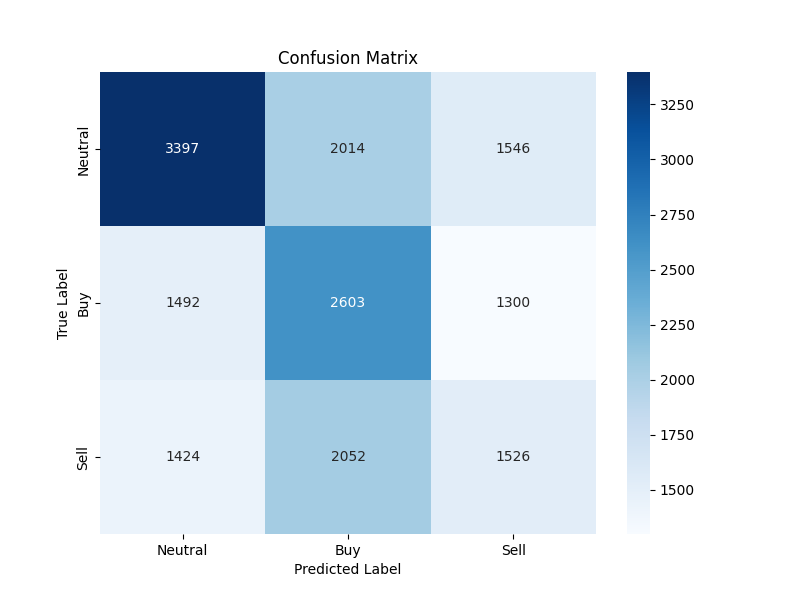
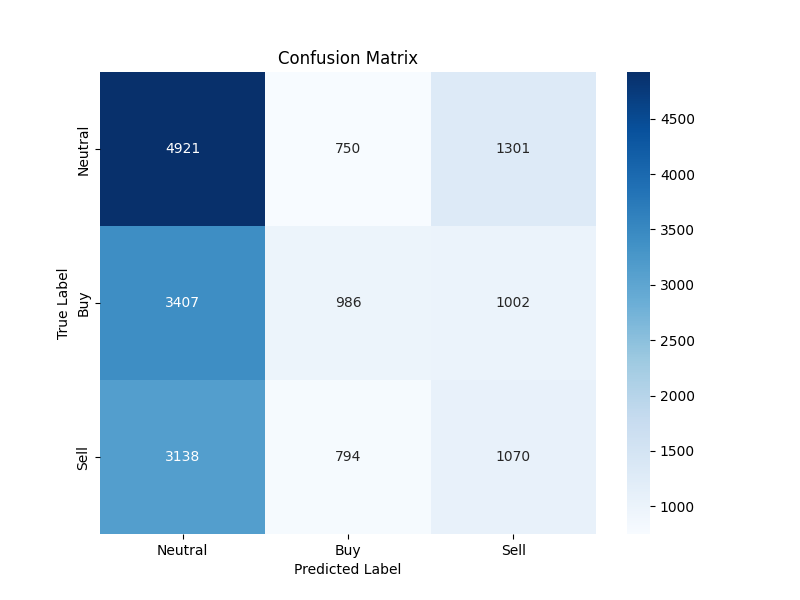
트렌드 매매 시뮬레이션

diff --git a/trade.py b/trade.py
@@ -1,0 +1,217 @@
+import pandas as pd
+import numpy as np
+import pandas_ta as ta
+
+# ===================================
+# === 1. 파라미터 설정 ===
+# ===================================
+# --- 전략 파라미터 ---
+WINDOW = 14
+ADX_TREND_THRESHOLD = 15
+ZSCORE_LOOKBACK_PERIOD = 14
+ZSCORE_THRESHOLD = 1.5
+EMA_LONG_PERIOD = 100
+
+# --- 백테스트 파라미터 ---
+DATA_FILE = "data.csv"
+INITIAL_BALANCE_USDT = 10000
+LEVERAGE = 10
+BASE_MARGIN_QUANTITY_BTC = 0.001 # 증거금 계산 기준이 되는 BTC 수량
+
+# --- 손익 및 수수료 파라미터 ---
+PROFIT_TAKE_PCT = 0.01
+STOP_LOSS_PCT = 0.01
+TRANSACTION_FEE_PCT = 0.0004
+
+# ===================================
+# === 2. 액션 결정 함수 ===
+# ===================================
+def get_action_decision(params):
+    adx = params['adx']
+    plus_di = params['plus_di']
+    minus_di = params['minus_di']
+    z_score = params['z_score']
+    close_price = params['close']
+    long_ema = params['long_ema']
+    adx_threshold = params['ADX_TREND_THRESHOLD']
+    z_score_threshold = params['ZSCORE_THRESHOLD']
+    action = None
+    is_trending = adx > adx_threshold
+    is_bullish_momentum = plus_di > minus_di and z_score > z_score_threshold
+    is_bearish_momentum = minus_di > plus_di and z_score < -z_score_threshold
+    is_above_long_ema = close_price > long_ema
+    is_below_long_ema = close_price < long_ema
+
+    if is_trending and is_bullish_momentum and is_above_long_ema:
+        action = "ENTER_LONG"
+    elif is_trending and is_bearish_momentum and is_below_long_ema:
+        action = "ENTER_SHORT"
+    return action
+
+# ===================================
+# === 3. 데이터 준비 및 지표 계산 ===
+# ===================================
+print("--- 데이터 로딩 및 지표 계산 시작 ---")
+try:
+    df = pd.read_csv(DATA_FILE, index_col="Timestamp", parse_dates=True)
+    print(f"데이터 로딩 완료: {len(df)} 행")
+except FileNotFoundError:
+    print(f"오류: 데이터 파일 '{DATA_FILE}'을 찾을 수 없습니다.")
+    exit()
+
+adx_df = ta.adx(high=df["High"], low=df["Low"], close=df["Close"], length=WINDOW)
+adx_df.rename(columns={f'ADX_{WINDOW}': 'adx', f'DMP_{WINDOW}': 'plus_di', f'DMN_{WINDOW}': 'minus_di'}, inplace=True)
+df = pd.concat([df, adx_df], axis=1)
+df['returns'] = df['Close'].pct_change()
+df['ret_x_vol'] = df['returns'] * df['Volume']
+sum_ret_x_vol = df['ret_x_vol'].rolling(window=ZSCORE_LOOKBACK_PERIOD).sum()
+sum_vol = df['Volume'].rolling(window=ZSCORE_LOOKBACK_PERIOD).sum()
+weighted_mean = sum_ret_x_vol / sum_vol
+dev_sq = (df['returns'] - weighted_mean)**2
+dev_sq_x_vol = dev_sq * df['Volume']
+sum_dev_sq_x_vol = dev_sq_x_vol.rolling(window=ZSCORE_LOOKBACK_PERIOD).sum()
+weighted_variance = sum_dev_sq_x_vol / sum_vol
+weighted_std = np.sqrt(weighted_variance)
+df['volume_zscore'] = (df['returns'] - weighted_mean) / weighted_std
+df[f'ema_{EMA_LONG_PERIOD}'] = ta.ema(df["Close"], length=EMA_LONG_PERIOD)
+df.dropna(inplace=True)
+print("모든 지표 계산 완료.")
+
+# ===================================
+# === 4. 백테스팅 시뮬레이션 실행 ===
+# ===================================
+print("--- 백테스팅 시뮬레이션 시작 ---")
+
+position = None
+entry_price = 0
+usdt_balance = INITIAL_BALANCE_USDT
+trades = []
+equity_history = []
+margin_used_usdt = 0
+effective_trade_quantity_btc = 0
+
+for i in range(1, len(df)):
+    prev_row = df.iloc[i-1]
+    current_row = df.iloc[i]
+
+    # --- 1. 포지션 종료(Exit) 로직 ---
+    if position is not None:
+        exit_price = 0
+        liquidation_price = 0
+        exit_reason = ""
+
+        # 청산 가격 계산
+        if position == "LONG":
+            liquidation_price = entry_price * (1 - 1/LEVERAGE)
+            if current_row["Low"] <= liquidation_price:
+                exit_price = liquidation_price
+                exit_reason = "LIQUIDATION"
+                print(f"청산 가격: {liquidation_price}")
+                print(f"진입 가격: {entry_price}")
+        elif position == "SHORT":
+            liquidation_price = entry_price * (1 + 1/LEVERAGE)
+            if current_row["High"] >= liquidation_price:
+                exit_price = liquidation_price
+                exit_reason = "LIQUIDATION"
+                print(f"청산 가격: {liquidation_price}")
+                print(f"진입 가격: {entry_price}")
+        
+        # TP/SL 가격 계산 (청산되지 않은 경우)
+        if exit_price == 0:
+            if position == "LONG":
+                if current_row["Low"] <= entry_price * (1 - STOP_LOSS_PCT):
+                    exit_price = entry_price * (1 - STOP_LOSS_PCT)
+                    exit_reason = "STOP_LOSS"
+                elif current_row["High"] >= entry_price * (1 + PROFIT_TAKE_PCT):
+                    exit_price = entry_price * (1 + PROFIT_TAKE_PCT)
+                    exit_reason = "TAKE_PROFIT"
+            elif position == "SHORT":
+                if current_row["High"] >= entry_price * (1 + STOP_LOSS_PCT):
+                    exit_price = entry_price * (1 + STOP_LOSS_PCT)
+                    exit_reason = "STOP_LOSS"
+                elif current_row["Low"] <= entry_price * (1 - PROFIT_TAKE_PCT):
+                    exit_price = entry_price * (1 - PROFIT_TAKE_PCT)
+                    exit_reason = "TAKE_PROFIT"
+
+        # 포지션 종료 처리
+        if exit_price > 0:
+            if exit_reason == "LIQUIDATION":
+                pnl_usdt = -margin_used_usdt
+            else:
+                pnl_usdt = (exit_price - entry_price) * effective_trade_quantity_btc if position == "LONG" else (entry_price - exit_price) * effective_trade_quantity_btc
+                exit_fee = exit_price * effective_trade_quantity_btc * TRANSACTION_FEE_PCT
+                pnl_usdt -= exit_fee
+
+            usdt_balance += pnl_usdt
+            trades.append({
+                "type": position, "entry_time": df.index[i-1], "exit_time": current_row.name,
+                "entry_price": entry_price, "exit_price": exit_price, "pnl_usdt": pnl_usdt, "exit_reason": exit_reason
+            })
+            position = None
+            entry_price = 0
+            margin_used_usdt = 0
+            effective_trade_quantity_btc = 0
+
+    # --- 2. 포지션 진입(Entry) 로직 ---
+    if position is None:
+        params = {
+            'adx': prev_row['adx'], 'plus_di': prev_row['plus_di'], 'minus_di': prev_row['minus_di'],
+            'z_score': prev_row['volume_zscore'], 'close': prev_row['Close'], f'long_ema': prev_row[f'ema_{EMA_LONG_PERIOD}'],
+            'ADX_TREND_THRESHOLD': ADX_TREND_THRESHOLD, 'ZSCORE_THRESHOLD': ZSCORE_THRESHOLD
+        }
+        action = get_action_decision(params)
+
+        if action is not None:
+            margin_used_usdt = current_row["Open"] * BASE_MARGIN_QUANTITY_BTC
+            if usdt_balance > margin_used_usdt:
+                position = action.split("_")[1]
+                entry_price = current_row["Open"]
+                effective_trade_quantity_btc = BASE_MARGIN_QUANTITY_BTC * LEVERAGE
+                entry_fee = entry_price * effective_trade_quantity_btc * TRANSACTION_FEE_PCT
+                usdt_balance -= entry_fee
+
+    # --- 3. 매 캔들마다 총 자산(Equity) 기록 ---
+    current_equity = usdt_balance
+    if position is not None:
+        unrealized_pnl = (current_row["Close"] - entry_price) * effective_trade_quantity_btc if position == "LONG" else (entry_price - current_row["Close"]) * effective_trade_quantity_btc
+        current_equity += unrealized_pnl
+    equity_history.append(current_equity)
+
+print("--- 백테스팅 시뮬레이션 종료 ---")
+
+# ===================================
+# === 5. 결과 분석 및 리포트 ===
+# ===================================
+print("\n--- 시뮬레이션 결과 분석 ---")
+
+if not trades:
+    print("시뮬레이션 기간 동안 거래가 발생하지 않았습니다.")
+else:
+    trades_df = pd.DataFrame(trades)
+    equity_series = pd.Series(equity_history, index=df.index[1:])
+    cumulative_max_equity = equity_series.cummax()
+    drawdown = (equity_series - cumulative_max_equity) / cumulative_max_equity
+    max_drawdown = drawdown.min()
+    total_pnl_usdt = usdt_balance - INITIAL_BALANCE_USDT
+    wins = trades_df[trades_df["pnl_usdt"] > 0]
+    losses = trades_df[trades_df["pnl_usdt"] < 0]
+    liquidations = trades_df[trades_df["exit_reason"] == "LIQUIDATION"]
+    win_rate = len(wins) / len(trades_df) if len(trades_df) > 0 else 0
+    total_profit = wins["pnl_usdt"].sum()
+    total_loss = abs(losses["pnl_usdt"].sum())
+    profit_factor = total_profit / total_loss if total_loss > 0 else np.inf
+
+    print(f"초기 자본 (USDT): {INITIAL_BALANCE_USDT:,.2f}")
+    print(f"최종 자본 (USDT): {usdt_balance:,.2f}")
+    print(f"총 손익 (USDT): {total_pnl_usdt:,.2f} ({total_pnl_usdt/INITIAL_BALANCE_USDT:.2%})")
+    print("-" * 30)
+    print(f"총 거래 횟수: {len(trades_df)}")
+    print(f"승리 횟수: {len(wins)}")
+    print(f"패배 횟수: {len(losses)}")
+    print(f"청산 횟수: {len(liquidations)}")
+    print(f"승률 (청산 제외): {win_rate:.2%}")
+    print("-" * 30)
+    print(f"평균 수익 (USDT): {wins['pnl_usdt'].mean():,.2f}" if not wins.empty else "N/A")
+    print(f"평균 손실 (USDT): {losses['pnl_usdt'].mean():,.2f}" if not losses.empty else "N/A")
+    print(f"수익 팩터 (Profit Factor): {profit_factor:.2f}")
+    print(f"최대 자본 하락폭 (MDD): {max_drawdown:.2%}")

diff --git a/train_v2.py b/train_v2.py
@@ -17,6 +17,7 @@ MODEL_FILE = "trend_model.json"
 PROFIT_TAKE_PCT = 0.01
 STOP_LOSS_PCT = 0.01
 TIME_BARRIER = 120
+MOMENTUM_PERIOD = 10
 
 # ===================================
 # === 2. 데이터 및 특성 준비 ===
@@ -33,11 +34,11 @@ except FileNotFoundError:
 def calculate_features(df):
     # 기존 특성
     df["volatility"] = df["Close"].pct_change().rolling(config.WINDOW).std()
-    ema_short = ta.ema(df["Close"], length=20)
-    ema_long = ta.ema(df["Close"], length=100)
-    df["price_vs_ema_short"] = df["Close"] / ema_short
-    df["price_vs_ema_long"] = df["Close"] / ema_long
-    df["ema_cross"] = ema_short / ema_long
+    # ema_short = ta.ema(df["Close"], length=20)
+    # ema_long = ta.ema(df["Close"], length=100)
+    # df["price_vs_ema_short"] = df["Close"] / ema_short
+    # df["price_vs_ema_long"] = df["Close"] / ema_long
+    # df["ema_cross"] = ema_short / ema_long
     returns = df["Close"].pct_change()
     mean_returns = returns.rolling(config.WINDOW).mean()
     std_returns = returns.rolling(config.WINDOW).std()
@@ -47,7 +48,6 @@ def calculate_features(df):
     df.rename(columns={f"ADX_{config.WINDOW}": "adx", f"DMP_{config.WINDOW}": "dmp", f"DMN_{config.WINDOW}": "dmn"}, inplace=True)
 
     # === 새로운 동적/모멘텀 특성 추가 ===
-    MOMENTUM_PERIOD = 10
     df["price_momentum"] = df["Close"].pct_change(periods=MOMENTUM_PERIOD)
     df["volatility_momentum"] = df["volatility"].pct_change(periods=MOMENTUM_PERIOD)
     df["adx_momentum"] = df["adx"].pct_change(periods=MOMENTUM_PERIOD)
@@ -94,8 +94,8 @@ print("--- Training New Trend Model (Multi-class) ---")
 
 # 특성과 라벨 분리
 feature_columns = [
-    "volatility", "adx", "dmp", "dmn", 
-    "price_vs_ema_short", "price_vs_ema_long", "ema_cross", "z_score",
+    "adx", "dmp", "dmn", 
+    "z_score",
     "price_momentum", "volatility_momentum", "adx_momentum"
 ]
 X = features_df[feature_columns]

diff --git a/evaluate_model.py b/evaluate_model.py
@@ -29,11 +29,11 @@ except FileNotFoundError:
 
 def calculate_features(df):
     df["volatility"] = df["Close"].pct_change().rolling(config.WINDOW).std()
-    ema_short = ta.ema(df["Close"], length=20)
-    ema_long = ta.ema(df["Close"], length=100)
-    df["price_vs_ema_short"] = df["Close"] / ema_short
-    df["price_vs_ema_long"] = df["Close"] / ema_long
-    df["ema_cross"] = ema_short / ema_long
+    # ema_short = ta.ema(df["Close"], length=20)
+    # ema_long = ta.ema(df["Close"], length=100)
+    # df["price_vs_ema_short"] = df["Close"] / ema_short
+    # df["price_vs_ema_long"] = df["Close"] / ema_long
+    # df["ema_cross"] = ema_short / ema_long
     returns = df["Close"].pct_change()
     mean_returns = returns.rolling(config.WINDOW).mean()
     std_returns = returns.rolling(config.WINDOW).std()
@@ -85,8 +85,8 @@ features_df.dropna(inplace=True)
 # ===================================
 print("--- Loading Model and Preparing Test Data ---")
 feature_columns = [
-    "volatility", "adx", "dmp", "dmn", 
-    "price_vs_ema_short", "price_vs_ema_long", "ema_cross", "z_score",
+    "adx", "dmp", "dmn", 
+    "z_score",
     "price_momentum", "volatility_momentum", "adx_momentum"
 ]
 X = features_df[feature_columns]

diff --git a/config.py b/config.py
@@ -18,6 +18,28 @@ LIQUIDATION_THRESHOLD_PCT = -0.05 # 총 증거금 대비 청산 임계값 (예: 
 # ===================================
 # === 액션 결정 함수 ===
 # ===================================
+def get_action_decision_DMI(params):
+    """
+    params: adx, plus_di, minus_di, unrealized_long_pnl, unrealized_short_pnl, ADX_TREND_THRESHOLD
+    """
+    
+    # 필요한 값들을 params 딕셔너리에서 추출
+    adx = params['adx']
+    plus_di = params['plus_di']
+    minus_di = params['minus_di']
+    adx_threshold = params['ADX_TREND_THRESHOLD']
+
+    action = None
+
+    # --- 현재 활성화된 전략 ---
+    # 설명: ADX가 임계값 '이상'이고, DMI 교차가 발생할 때 
+    if adx > adx_threshold and plus_di < minus_di:
+        action = "ENTER_LONG"
+    elif adx > adx_threshold and plus_di > minus_di:
+        action = "ENTER_SHORT"
+    
+    return action
+
 def get_action_decision(params):
     """
     주어진 조건에 따라 부분 청산 액션을 결정합니다.
